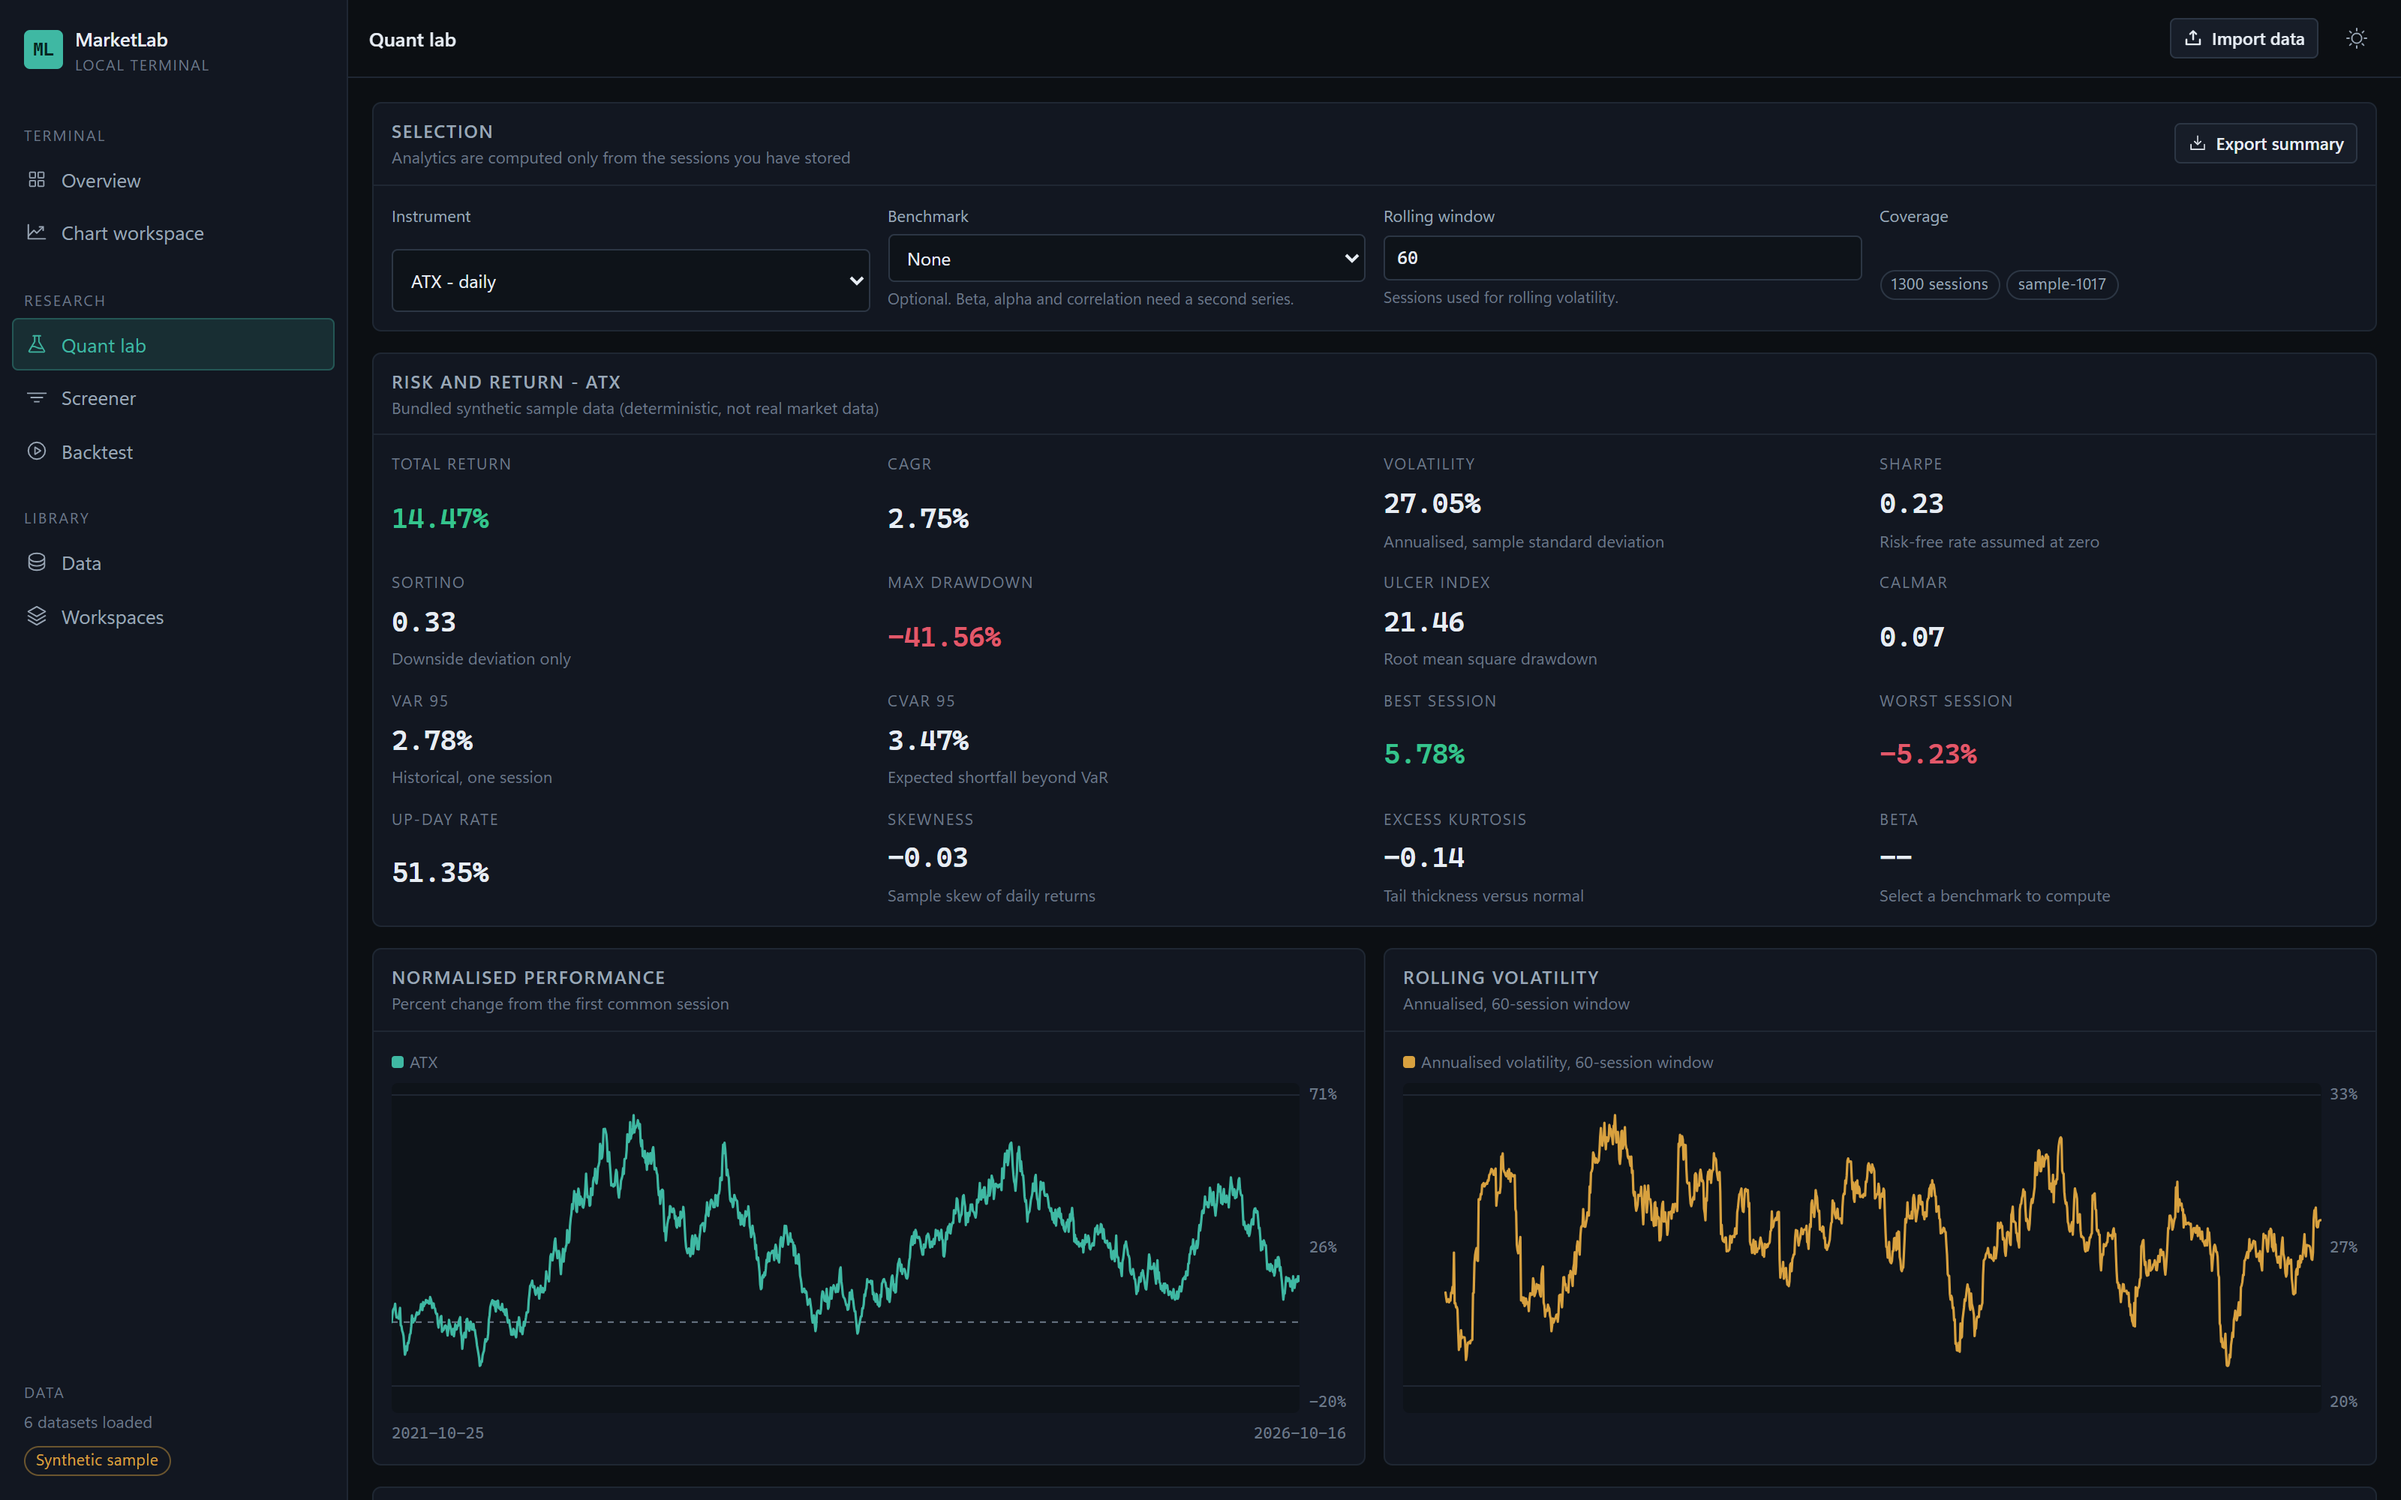
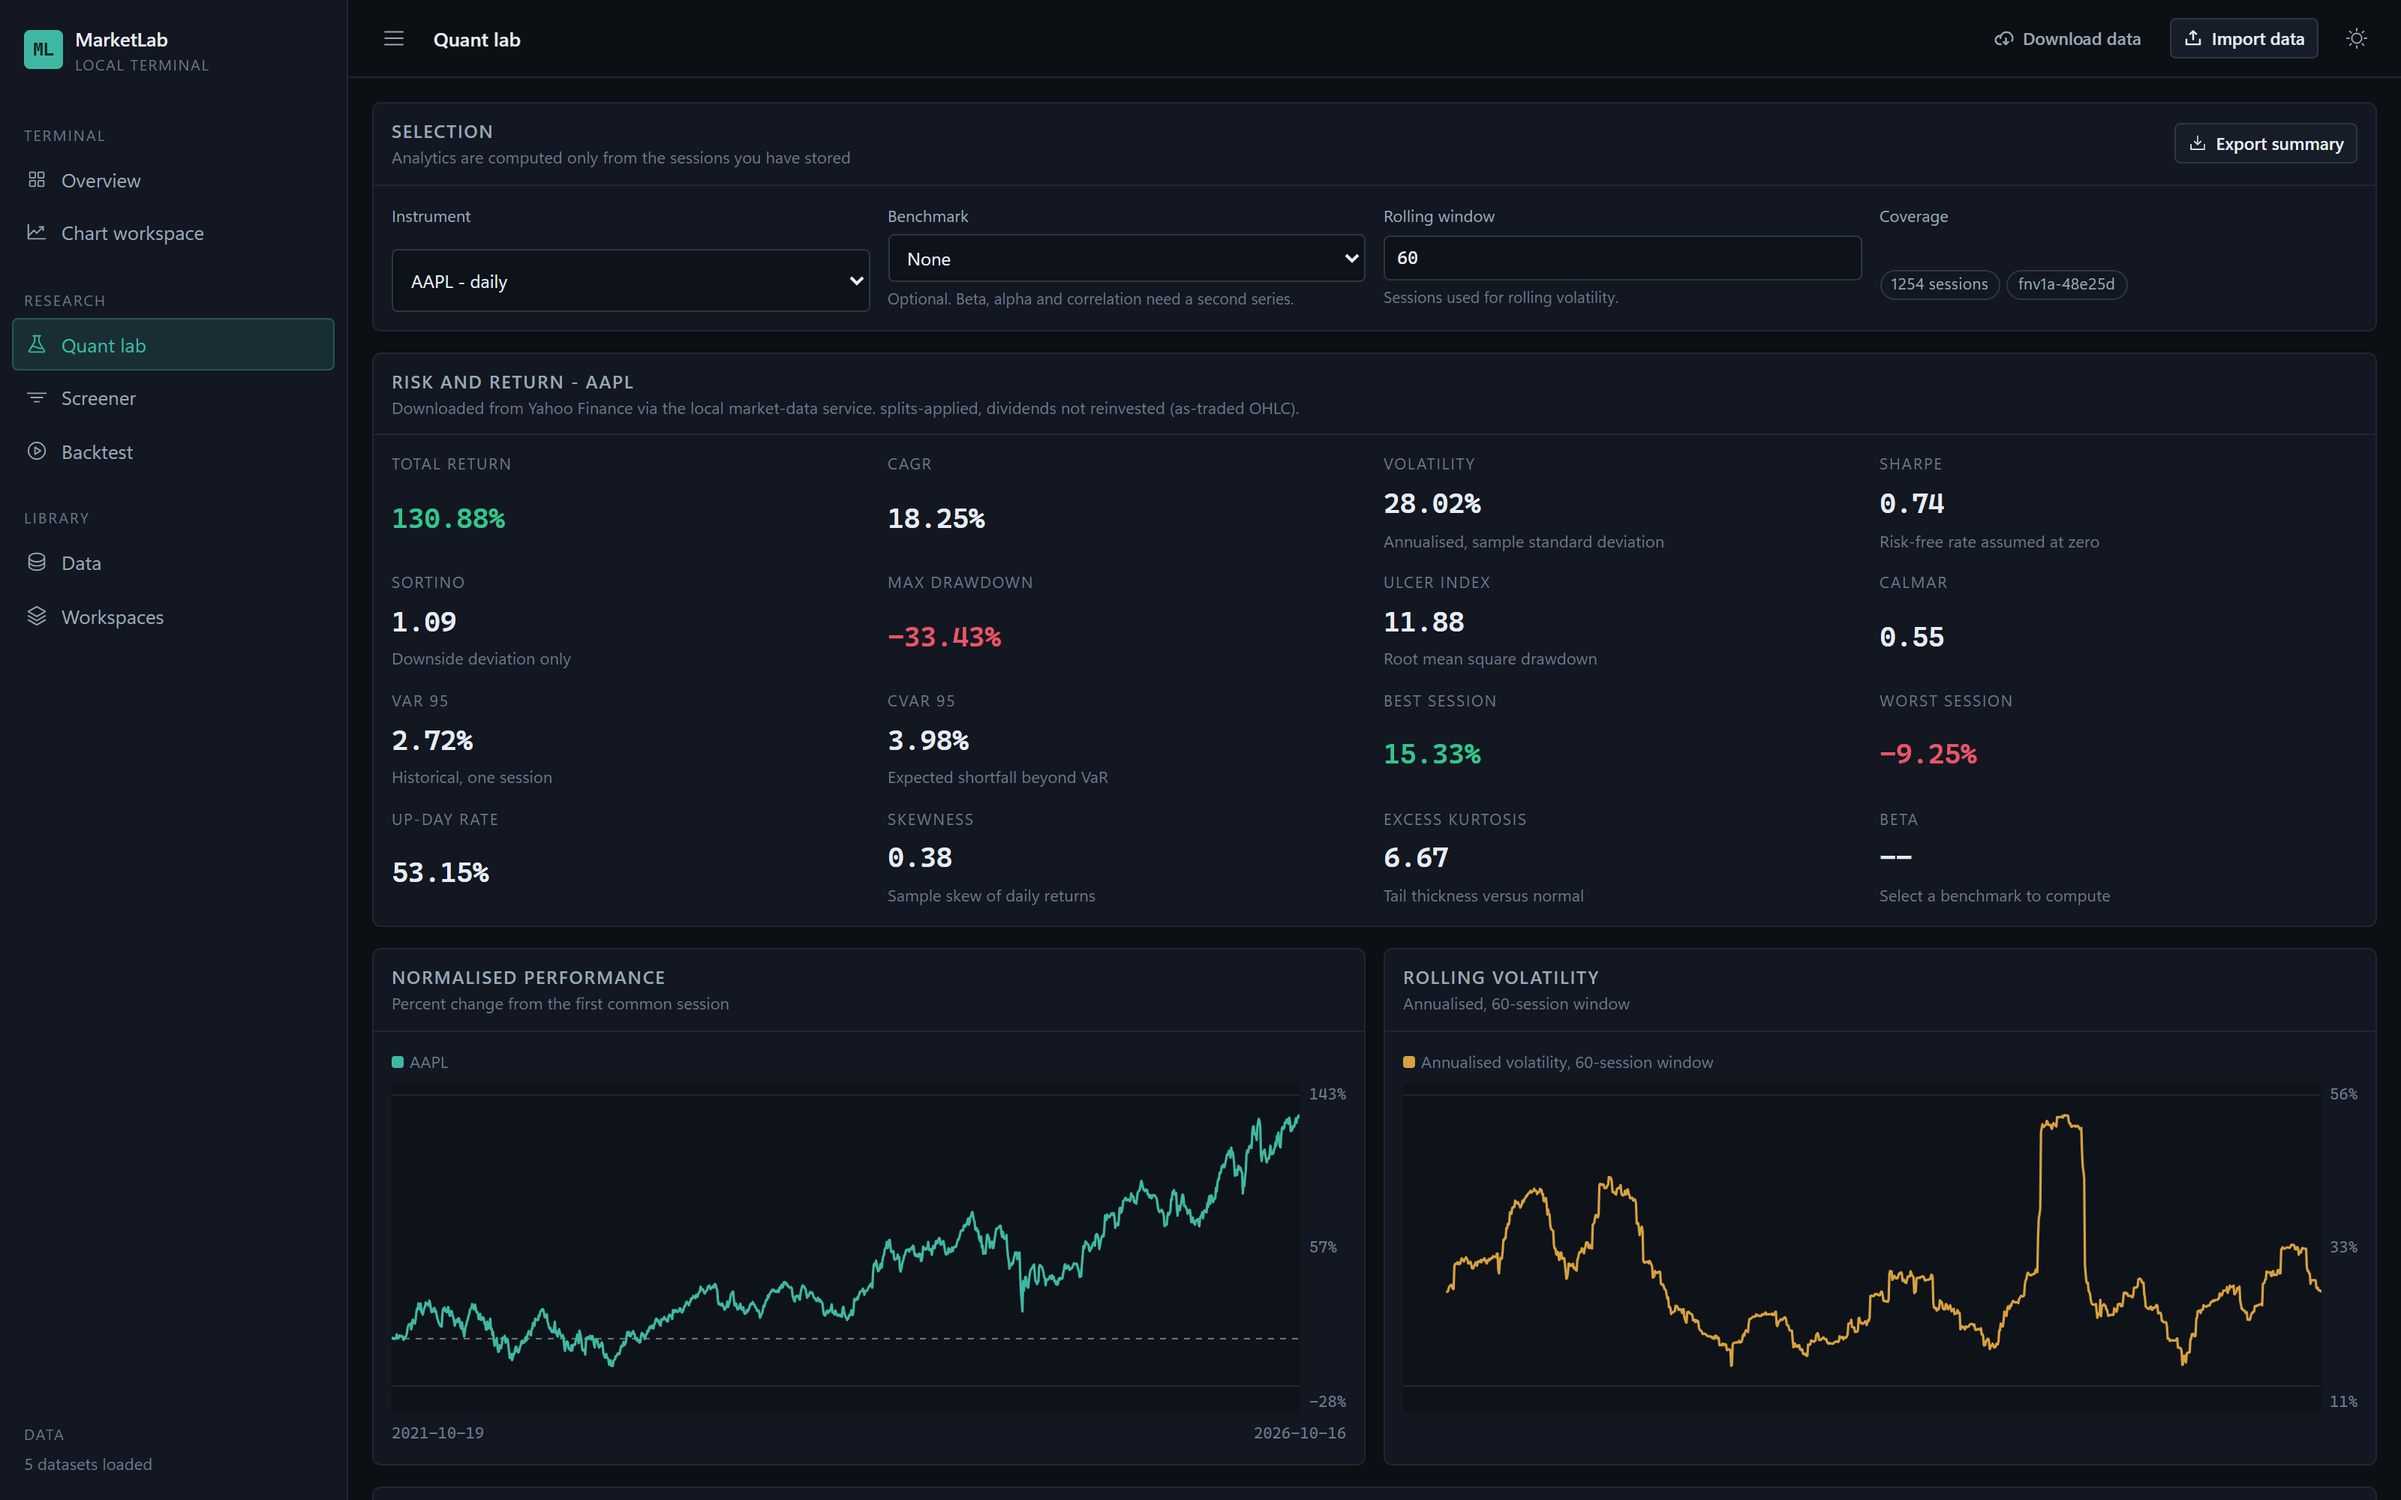
docs: rewrite the README around the real-data-first flow
The application ships no market data, so the README now says so: the library
starts empty, the three ways to fill it are documented, and the provider's
limitations are stated where the download is described.

The published screenshots were re-captured from a real download (AAPL, MSFT,
NVDA, SPY and QQQ through the local market-data service), so they show real
bars with their provenance instead of the old demo series.

diff --git a/README.md b/README.md
@@ -2,7 +2,7 @@
 
 **A local-first charting and quantitative research terminal that runs entirely in the browser.**
 
-[Live application](https://marketlab.sourabhpradhan.in) · [Getting started](#getting-started) · [Architecture](#architecture) · [Scope](#scope-and-limitations)
+[Live application](https://marketlab.sourabhpradhan.in) · [Getting started](#getting-started) · [Getting data](#getting-data) · [Architecture](#architecture) · [Scope](#scope-and-limitations)
 
 MarketLab implements, from first principles, the workflow a trading terminal gives you: validated
 OHLCV ingestion, interactive charts with indicators and drawings, risk and cross-asset research,
@@ -11,17 +11,21 @@ It is a static single-page app — there is no account, no backend and no teleme
 calendar, indicator and simulation is computed on your own device. Your data lives in the
 browser's IndexedDB and is never uploaded anywhere.
 
+**MarketLab stores no bundled market data.** The library starts empty and fills with history you
+download through the optional local market-data service or import from a CSV file. Nothing is
+synthesised, and no price is ever invented to fill a gap.
+
 MarketLab is an independent project. It is not affiliated with, endorsed by, or derived from
 TradingView or any other commercial charting platform; it reimplements a familiar terminal
 *workflow* from scratch.
 
-![The MarketLab chart workspace: a candlestick series with a volume pane, drawing tools and a watchlist](docs/screenshots/workspace.png)
+![The MarketLab chart workspace: a daily candlestick series with a volume pane, drawing tools and a watchlist](docs/screenshots/workspace.png)
 
 ## Features
 
 ### Charting
 
-- Candlestick, line, area and baseline series, with a volume pane and normal, logarithmic or
+- Candlestick, bar, line, area and baseline series, with a volume pane and normal, logarithmic or
   percentage price scales.
 - Crosshair readout showing OHLC, change and session date for the bar under the pointer.
 - Layouts of one, two stacked, two side by side or four panels. Link groups keep panels that
@@ -57,13 +61,14 @@ yet (warm-up periods) are empty rather than zero.
 
 ### Data
 
+- **Download real history** — one symbol at a time, or a whole list in one batch. Every symbol is
+  reported on its own, so one unavailable ticker never discards the rest of the run.
 - **CSV import** with inferred column roles you can override, a validation report, and rejected
   rows listed with reasons (see [Importing your own data](#importing-your-own-data)).
 - **Weekly and monthly views** aggregated from daily bars, always labelled as aggregated. Daily
   data is never interpolated into intraday bars.
-- **Optional real daily bars** downloaded through a bundled local service
-  (see [Optional real market data](#optional-real-market-data)), with the provider, exchange,
-  adjustment policy and retrieval time stored next to every series.
+- **Provenance** — every downloaded series stores its provider, exchange, adjustment policy and
+  retrieval time, and shows them in the data library, the inspection panel and the chart legend.
 - **Export and backup** — datasets, quant summaries, screener results, backtest trades and the
   equity curve as CSV; the whole workspace as a versioned JSON backup that can be merged into or
   restored over the current state.
@@ -88,10 +93,9 @@ npm install
 npm run dev
 ```
 
-Open the printed URL. On first run the app seeds a bundled sample set — six instruments of 1,300
-daily sessions each, generated locally from a fixed seed — so every screen has data to show. The
-sample is labelled **not real market data** everywhere it appears and can be replaced with your
-own imports.
+Open the printed URL. The library starts empty on purpose: the first screen offers to download
+real market data, to import a CSV file, or to open the chart workspace and read how to get
+started. Nothing is pre-filled, and no placeholder prices are shown.
 
 ### Scripts
 
@@ -107,7 +111,35 @@ own imports.
 | `npm run test:e2e` | Run the Playwright end-to-end suite against a preview build. |
 | `npm run verify` | Lint, type-check, unit test and build in one pass. |
 
-## Importing your own data
+## Getting data
+
+### Downloading real history
+
+MarketLab downloads daily bars from Yahoo Finance through a small local service that lives in
+`services/market-data/`. It is deliberately outside the app: the frontend only talks to
+`127.0.0.1`, so nothing is proxied through the site you are viewing.
+
+```bash
+cd services/market-data
+python -m venv .venv && . .venv/bin/activate   # Windows: .venv\Scripts\activate
+pip install -r requirements.txt
+python -m uvicorn app:app --host 127.0.0.1 --port 8787
+```
+
+Then use **Data → Download market data** for a single symbol, or **Data → Download many symbols**
+for a batch — AAPL, MSFT, NVDA, SPY and QQQ are sensible starting points, and the batch dialog
+accepts any list you paste in. Read
+[`services/market-data/README.md`](services/market-data/README.md) for the endpoints, the error
+model and the setup details.
+
+Worth stating plainly: **Yahoo Finance is an unofficial, undocumented source.** Downloads can be
+delayed for some venues, be rate limited, or change shape without notice, and the data is not
+licensed for redistribution. Every series keeps its provider, exchange, adjustment policy and
+retrieval timestamp so the provenance travels with the prices. The service is entirely optional:
+without it, CSV imports, previously downloaded series and every other feature keep working, and
+download attempts fail with an explicit message instead of silently producing nothing.
+
+### Importing your own data
 
 CSV import accepts a header row and infers the column roles, which you can override before
 importing:
@@ -130,36 +162,11 @@ sessions are reported as warnings. Missing sessions are reported as gaps rather 
 and every stored series carries a content hash that is also used to recognise an already-stored
 series when a backup is restored.
 
-## Optional real market data
-
-MarketLab ships with an optional local service that downloads real daily bars from Yahoo Finance
-through [`yfinance`](https://github.com/ranaroussi/yfinance). It is deliberately outside the app:
-the frontend only talks to `127.0.0.1`, so nothing is proxied through the site you are viewing.
-
-```bash
-cd services/market-data
-python -m venv .venv && . .venv/bin/activate   # Windows: .venv\Scripts\activate
-pip install -r requirements.txt
-python -m uvicorn app:app --host 127.0.0.1 --port 8787
-```
-
-Then choose **Data → Download market data** in the app. Read
-[`services/market-data/README.md`](services/market-data/README.md) for the endpoints, the error
-model and the setup details.
-
-Worth stating plainly: **Yahoo Finance is an unofficial, undocumented source.** Downloads can be
-delayed for some venues, be rate limited, or change shape without notice, and the data is not
-licensed for redistribution. Every series keeps its provider, exchange, adjustment policy and
-retrieval timestamp so the provenance travels with the prices. The service is entirely optional:
-without it, local CSV imports, the bundled sample, previously downloaded series and every other
-feature keep working, and download attempts fail with an explicit message.
-
 ## Architecture
 
 ```
 src/
   components/     app shell, UI primitives, chart panels, chart adapter, dialogs
-  data/           deterministic synthetic sample data
   domain/         canonical domain types (bars, datasets, workspaces, drawings)
   lib/
     backtest/     rule definitions, comparison helpers, simulation engine
@@ -167,14 +174,15 @@ src/
     drawings/     drawing geometry and hit testing
     export/       CSV writers, JSON backup and browser download helpers
     indicators/   indicator implementations and registry
-    marketdata/   provider-independent client and response normalisation
+    marketdata/   provider-independent client, batch queue and response normalisation
+    migration/    removal of the legacy bundled demo series
     persistence/  IndexedDB adapter with an in-memory fallback
     quant/        performance, risk, correlation and comparison metrics
     screener/     screener fields and evaluation
     validation/   dataset validation and OHLC invariants
     workspace/    backup schema and migration
   pages/          one module per top-level screen
-  state/          store, defaults, selectors and sample seeding
+  state/          store, defaults, selectors
   styles/         design tokens and global styles
 services/
   market-data/    optional local FastAPI + yfinance service and its tests
@@ -195,6 +203,10 @@ set of design tokens, with dark and light themes.
 - **Canonical bars.** A session is identified by its date (`YYYY-MM-DD`), bucketed in UTC. Only
   daily → weekly (Monday-based) and daily → monthly aggregation is offered; intraday is
   unsupported by design, and nothing infers an intraday series from daily data.
+- **Real data or nothing.** The application ships no synthetic series. An empty library is a
+  first-run state with real actions in it, not a gap filled with invented prices. A browser that
+  ran an earlier build still holding the old demo series has them removed on load, and only
+  them: imported, downloaded and user-created records are left untouched.
 - **Deterministic maths, explicit gaps.** Indicators, metrics and the backtester are pure
   functions over stored bars, with warm-up periods reported as empty rather than zero.
 - **Validation before storage.** Imported and downloaded series are checked for OHLC invariants,
@@ -220,11 +232,13 @@ python -m pytest services/market-data/tests -q
 
 Unit tests cover the pure logic where correctness is decided: indicator values, OHLC validation
 and CSV mapping, risk metrics and correlation, screener evaluation, the backtest engine's fill
-model, backup parsing and migration, and export formatting. The end-to-end suite drives the built
-app with the locally installed Google Chrome (`channel: 'chrome'`, no browser download) and covers
-the shell, the chart workspace, drawing and keyboard behaviour, CSV import and rejection paths,
-the research screens, settings, and backup export/restore. The service test suite is
-deterministic and never touches the network.
+model, the download batch queue, backup parsing and migration, the removal of the legacy demo
+series, and export formatting. The end-to-end suite drives the built app with the locally
+installed Google Chrome (`channel: 'chrome'`, no browser download) and covers the shell, the
+chart workspace, drawing and keyboard behaviour, CSV import and rejection paths, the research
+screens, settings, backup export/restore, the download success and failure paths, and the
+first-run and migration behaviour. The service test suite is deterministic and never touches the
+network.
 
 ## Hosting
 
@@ -243,7 +257,7 @@ MarketLab is a research tool, and its edges are intentional:
   short selling, borrow costs or corporate actions beyond the adjusted close it stores.
 - State is per browser profile. Moving between browsers is done deliberately through the JSON
   backup, not through an account or a sync service.
-- Nothing here is investment advice, and the bundled sample data is synthetic by construction.
+- Nothing here is investment advice.
 
 ---
 
